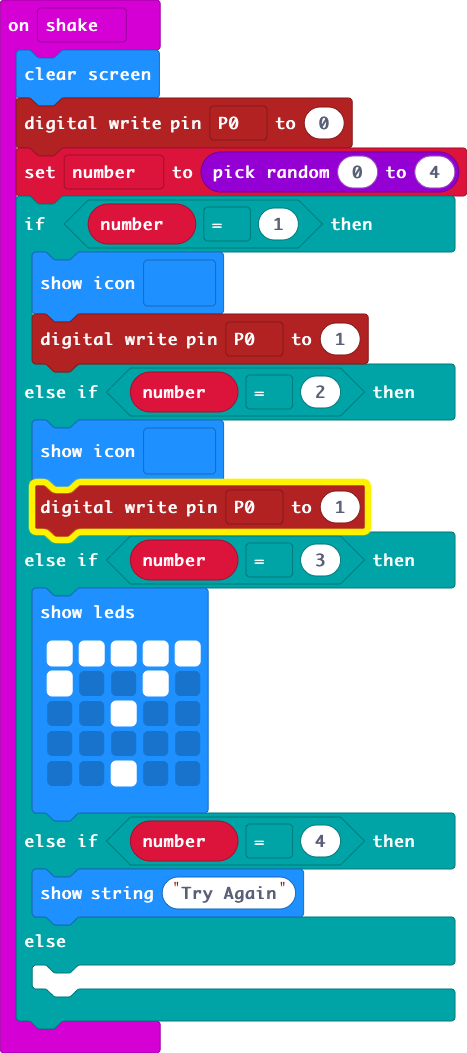
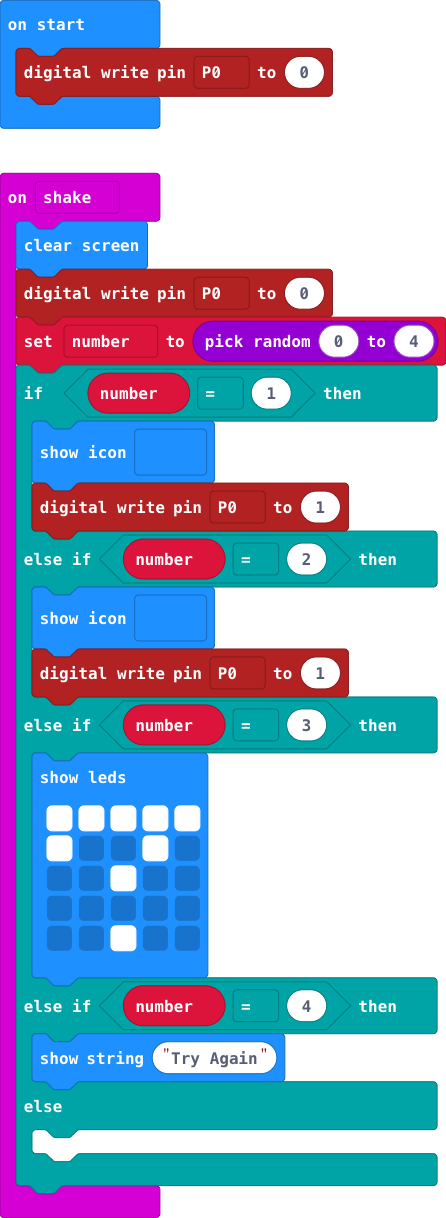
Update main.blocks, main.ts

diff --git a/main.ts b/main.ts
@@ -1,4 +1,3 @@
-let number = 0
 input.onGesture(Gesture.Shake, function () {
     basic.clearScreen()
     pins.digitalWritePin(DigitalPin.P0, 0)
@@ -23,3 +22,5 @@ input.onGesture(Gesture.Shake, function () {
     	
     }
 })
+let number = 0
+pins.digitalWritePin(DigitalPin.P0, 0)
